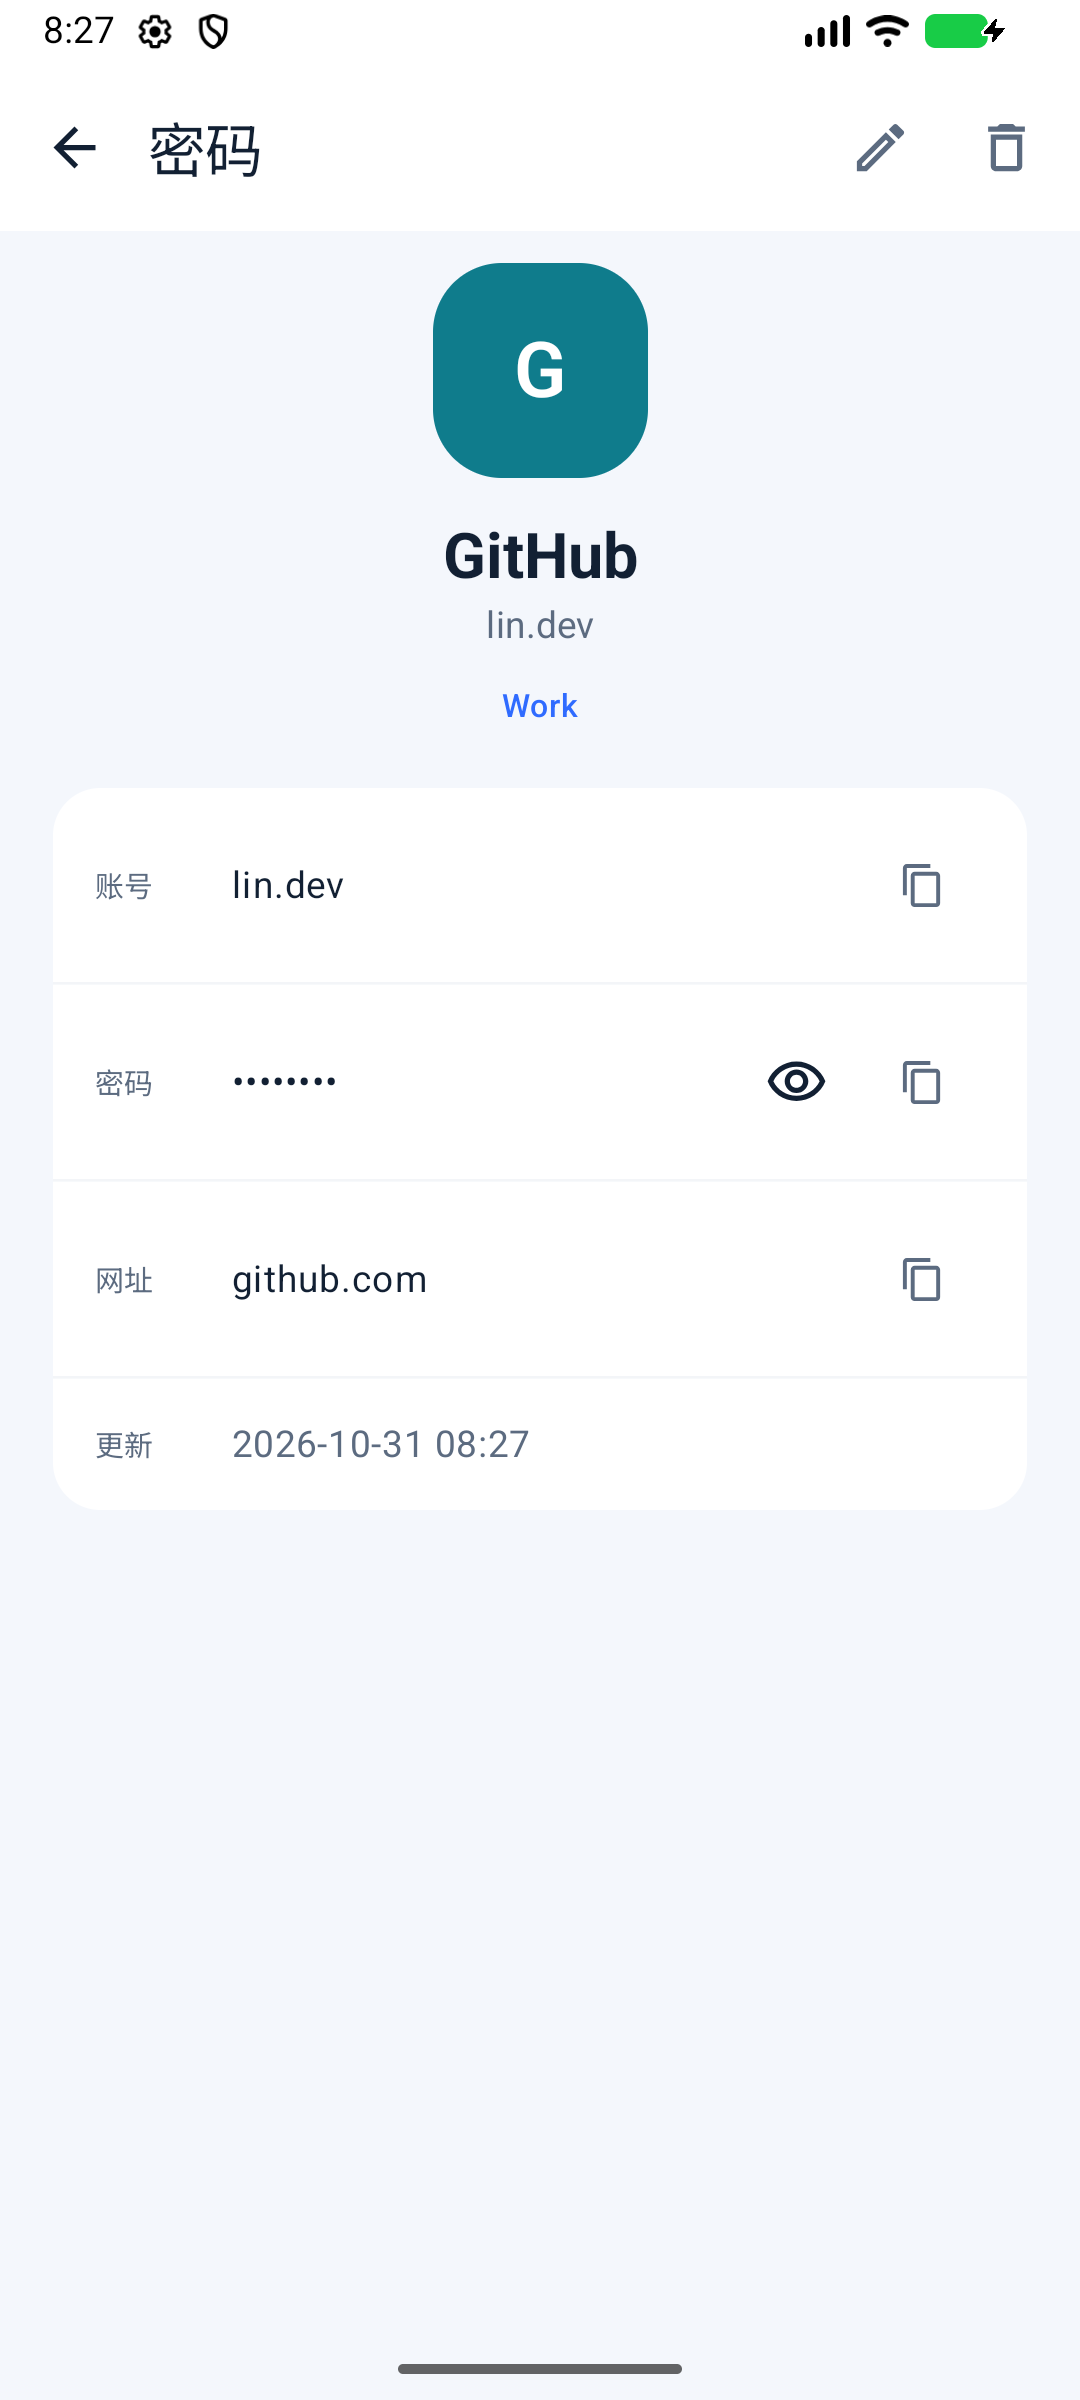
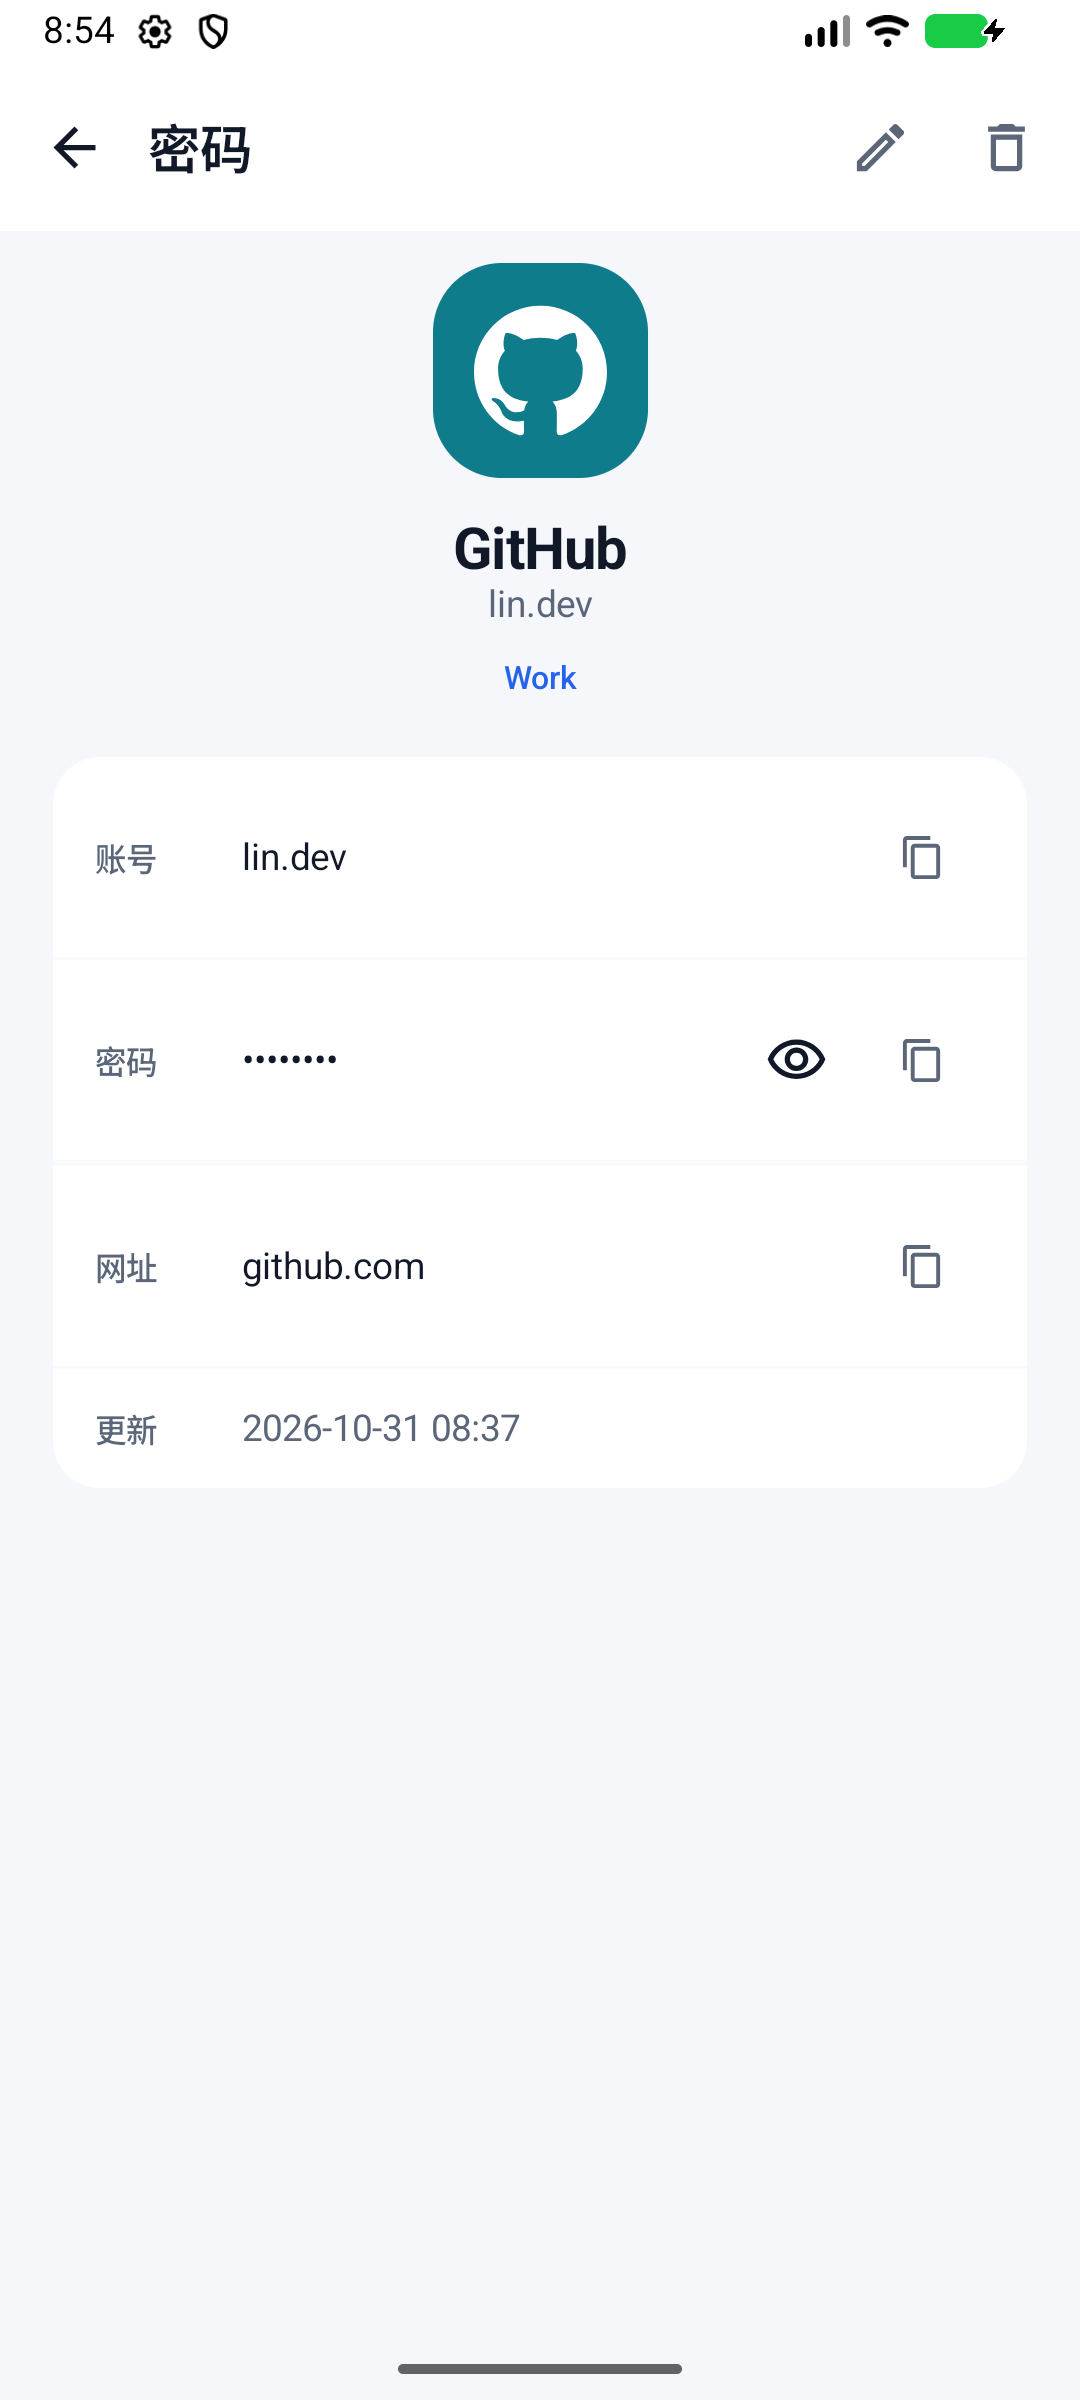
docs: document UI redesign and refresh emulator screenshots

diff --git a/README.md b/README.md
@@ -3,14 +3,14 @@
 **Local-first, offline Android password manager and TOTP authenticator.**
 No account, no cloud, **no `INTERNET` permission**.
 
-> Status: working debug build. Create/unlock, password CRUD, TOTP codes, groups, theme/dark mode, encrypted backup export, and automatic Aegis icon matching are implemented and verified on an Android 37 emulator. Biometric unlock, QR scanning, Aegis/Google import, and a full icon picker are still planned.
+> Status: working debug build. Create/unlock, password CRUD, TOTP codes, QR scanning, groups, accent/dark theme, encrypted backup export/import, master-password rotation, auto-lock, and automatic Aegis icon matching are implemented and verified on an Android 37 emulator. Biometric unlock, Aegis/Google Authenticator import, and a full icon picker are still planned.
 
 ## What it is
 
 KeyCase keeps two kinds of items in one local, encrypted vault:
 
 - **Passwords** — accounts, passwords, URLs, notes, groups.
-- **Dynamic tokens (TOTP)** — manually entered secrets, with codes generated on-device.
+- **Dynamic tokens (TOTP)** — scanned QR codes or manually entered secrets, with codes generated on-device.
 
 The app is built for Android and is intentionally offline. There is no sync server, no account system, and no telemetry.
 
@@ -18,12 +18,13 @@ The app is built for Android and is intentionally offline. There is no sync serv
 
 - The vault is encrypted on the device; the master password never leaves it.
 - The app declares **no `INTERNET` permission**, so it cannot upload data.
-- Backups are explicit, encrypted files written to a folder the user chooses.
-- Data is portable: export the encrypted container now; Aegis/Google import and plaintext export are planned.
+- Backups are explicit, encrypted files written to a folder the user chooses, and can be imported back.
+- Data is portable: import/export the encrypted container now; Aegis/Google Authenticator import is planned.
 
 ## Documentation
 
 - [Design decisions v0.5](docs/design/design-decisions-v0.5.md)
+- [UI redesign notes](docs/design/ui-redesign.md)
 - [Vault container format v1](docs/design/vault-format-v1.md)
 - [Research notes](docs/design/research.md)
 - [Clickable prototype](docs/prototype/index.html)
@@ -33,14 +34,16 @@ The app is built for Android and is intentionally offline. There is no sync serv
 
 | | |
 |---|---|
-| ![Create](docs/screenshots/create.png) | ![Unlock](docs/screenshots/unlock.png) |
-| Create a local vault | Unlock with the master password |
-| ![Home](docs/screenshots/home.png) | ![Passwords](docs/screenshots/passwords.png) |
-| Home stats and recent items | Passwords with Aegis icon matching |
-| ![Password detail](docs/screenshots/password-detail.png) | ![Tokens](docs/screenshots/tokens.png) |
-| Password detail | TOTP list with live codes |
-| ![Token detail](docs/screenshots/token-detail.png) | ![Settings](docs/screenshots/settings-dark.png) |
-| TOTP detail | Dark mode + accent color |
+| ![Unlock](docs/screenshots/unlock.png) | ![Home](docs/screenshots/home.png) |
+| Unlock with the master password | Home stats and recent items |
+| ![Passwords](docs/screenshots/passwords.png) | ![Password detail](docs/screenshots/password-detail.png) |
+| Passwords with Aegis icon matching | Password detail |
+| ![Tokens](docs/screenshots/tokens.png) | ![Token detail](docs/screenshots/token-detail.png) |
+| TOTP list with live codes and QR scan | TOTP detail |
+| ![Settings light](docs/screenshots/settings-light.png) | ![Settings dark](docs/screenshots/settings-dark.png) |
+| Settings, grouped rows | Dark mode |
+| ![Groups](docs/screenshots/groups.png) | |
+| Group management | |
 
 ## Build
 
@@ -78,7 +81,7 @@ docs/                design notes and the HTML prototype
 gradle/              version catalog and wrapper
 ```
 
-The `:core` module is deliberately free of Android APIs so its security-critical logic can be tested on the JVM. The Android layer (`app/`) owns files, Keystore, biometrics, and UI.
+The `:core` module is deliberately free of Android APIs so its security-critical logic can be tested on the JVM. The Android layer (`app/`) owns files, QR scanning, and UI.
 
 ## Icon packs
 

diff --git a/docs/design/ui-redesign.md b/docs/design/ui-redesign.md
@@ -1,0 +1,62 @@
+# KeyCase UI redesign notes
+
+The first Android build used a saturated accent as a background color and a fixed blue-grey surface, which made the app feel purple-on-blue and uncentered. This redesign treats color as a single accent role over neutral surfaces.
+
+Reference: [UI UX Pro Max](https://github.com/nextlevelbuilder/ui-ux-pro-max-skill) design intelligence; password-manager product guidance (Minimalism & Swiss Style + Accessible & Ethical; trust blue + security green + dark neutral).
+
+## Design principles
+
+- **One accent role.** Accent is used for primary actions, selected navigation, focus rings and small icon containers. Large surfaces stay neutral.
+- **Neutral canvas, coherent dark mode.** Dark surfaces are deep navy-grey, not a purple tint; light surfaces are near-white over a cool neutral background.
+- **One information hierarchy per screen.** Title → section label → grouped card → row. No nested decorative cards.
+- **4/8dp rhythm.** 16dp screen gutters, 14–18dp card radii, 16dp card padding, 10dp gaps between cards.
+- **Touch first.** Primary controls are 48dp; icon-only controls have at least 48dp hit targets via `IconButton`.
+- **No emoji as icons.** Material outlined icons only; the Aegis pack supplies real brand marks.
+
+## Color tokens
+
+| Role | Light | Dark |
+|---|---|---|
+| Background | `#F5F7FA` | `#0B111B` |
+| Surface | `#FFFFFF` | `#121B29` |
+| Surface variant | `#F0F3F7` | `#1A2535` |
+| Ink | `#111827` | `#E9EFF7` |
+| Muted ink | `#5B6779` | `#9BA9BC` |
+| Outline | `#D6DEE8` | `#2B394D` |
+| Default accent | `#2563EB` | same |
+| Optional accents | teal/green/amber/rose | same |
+
+Amber uses dark foreground text (`luminance > 0.30` selects ink instead of white), so button and chip labels stay readable.
+
+## Components
+
+- **Stat cards:** 88dp high, icon at left, number and label vertically centered as one column. The first card uses a 10% accent container; the rest are surface cards with a 1dp outline.
+- **Settings:** section label outside the card, rows inside, 1dp dividers inset past the icon; no full-saturation panels.
+- **Theme selector:** three equal 48dp segments; selected segment is accent, not a Material FilterChip row.
+- **Bottom navigation:** surface-colored bar with a hairline divider; selected item uses accent icon/text and a subtle accent container indicator.
+- **Detail/edit:** grouped information card; destructive action is icon + confirmation dialog; forms use labeled fields, not placeholders only.
+
+## Verification checklist
+
+- [x] Stat card content vertically centered (fixed `fillMaxSize` + `CenterVertically`).
+- [x] Light and dark surface pairs checked on the Android 37 emulator.
+- [x] 48dp theme segments and icon controls.
+- [x] Safe-area padding through Scaffold / system bar insets.
+- [x] No emoji structural icons.
+- [x] Accent used sparingly; neutral background remains stable when accent changes.
+- [ ] Largest Dynamic Type and landscape still need a dedicated pass.
+- [ ] Imported icon packs and a full icon picker are not implemented yet.
+
+## Screens to review
+
+| Screen | File |
+|---|---|
+| Unlock (dark) | `docs/screenshots/unlock.png` |
+| Home (light) | `docs/screenshots/home.png` |
+| Passwords | `docs/screenshots/passwords.png` |
+| Password detail | `docs/screenshots/password-detail.png` |
+| Tokens + QR scan | `docs/screenshots/tokens.png` |
+| Token detail | `docs/screenshots/token-detail.png` |
+| Settings (light) | `docs/screenshots/settings-light.png` |
+| Settings (dark) | `docs/screenshots/settings-dark.png` |
+| Group management | `docs/screenshots/groups.png` |

diff --git a/docs/design/vault-format-v1.md b/docs/design/vault-format-v1.md
@@ -91,12 +91,17 @@ The accepted KDF range is deliberately capped so a malicious header cannot reque
 
 The caller must treat all of these as "cannot open" rather than leaking which check failed to the UI.
 
+## Implemented operations
+
+- create from a master password;
+- unlock into an in-memory `UnlockedVault`;
+- re-seal edits with a fresh payload nonce;
+- rotate the password slot without re-keying the payload.
+
 ## Not in v1 yet
 
 - biometric slot (Android Keystore–wrapped vault key);
 - recovery-code slot;
-- password change / slot rotation;
-- atomic file write and backup rotation (Android layer);
 - attachments;
 - streaming/mmap for very large vaults.
 
